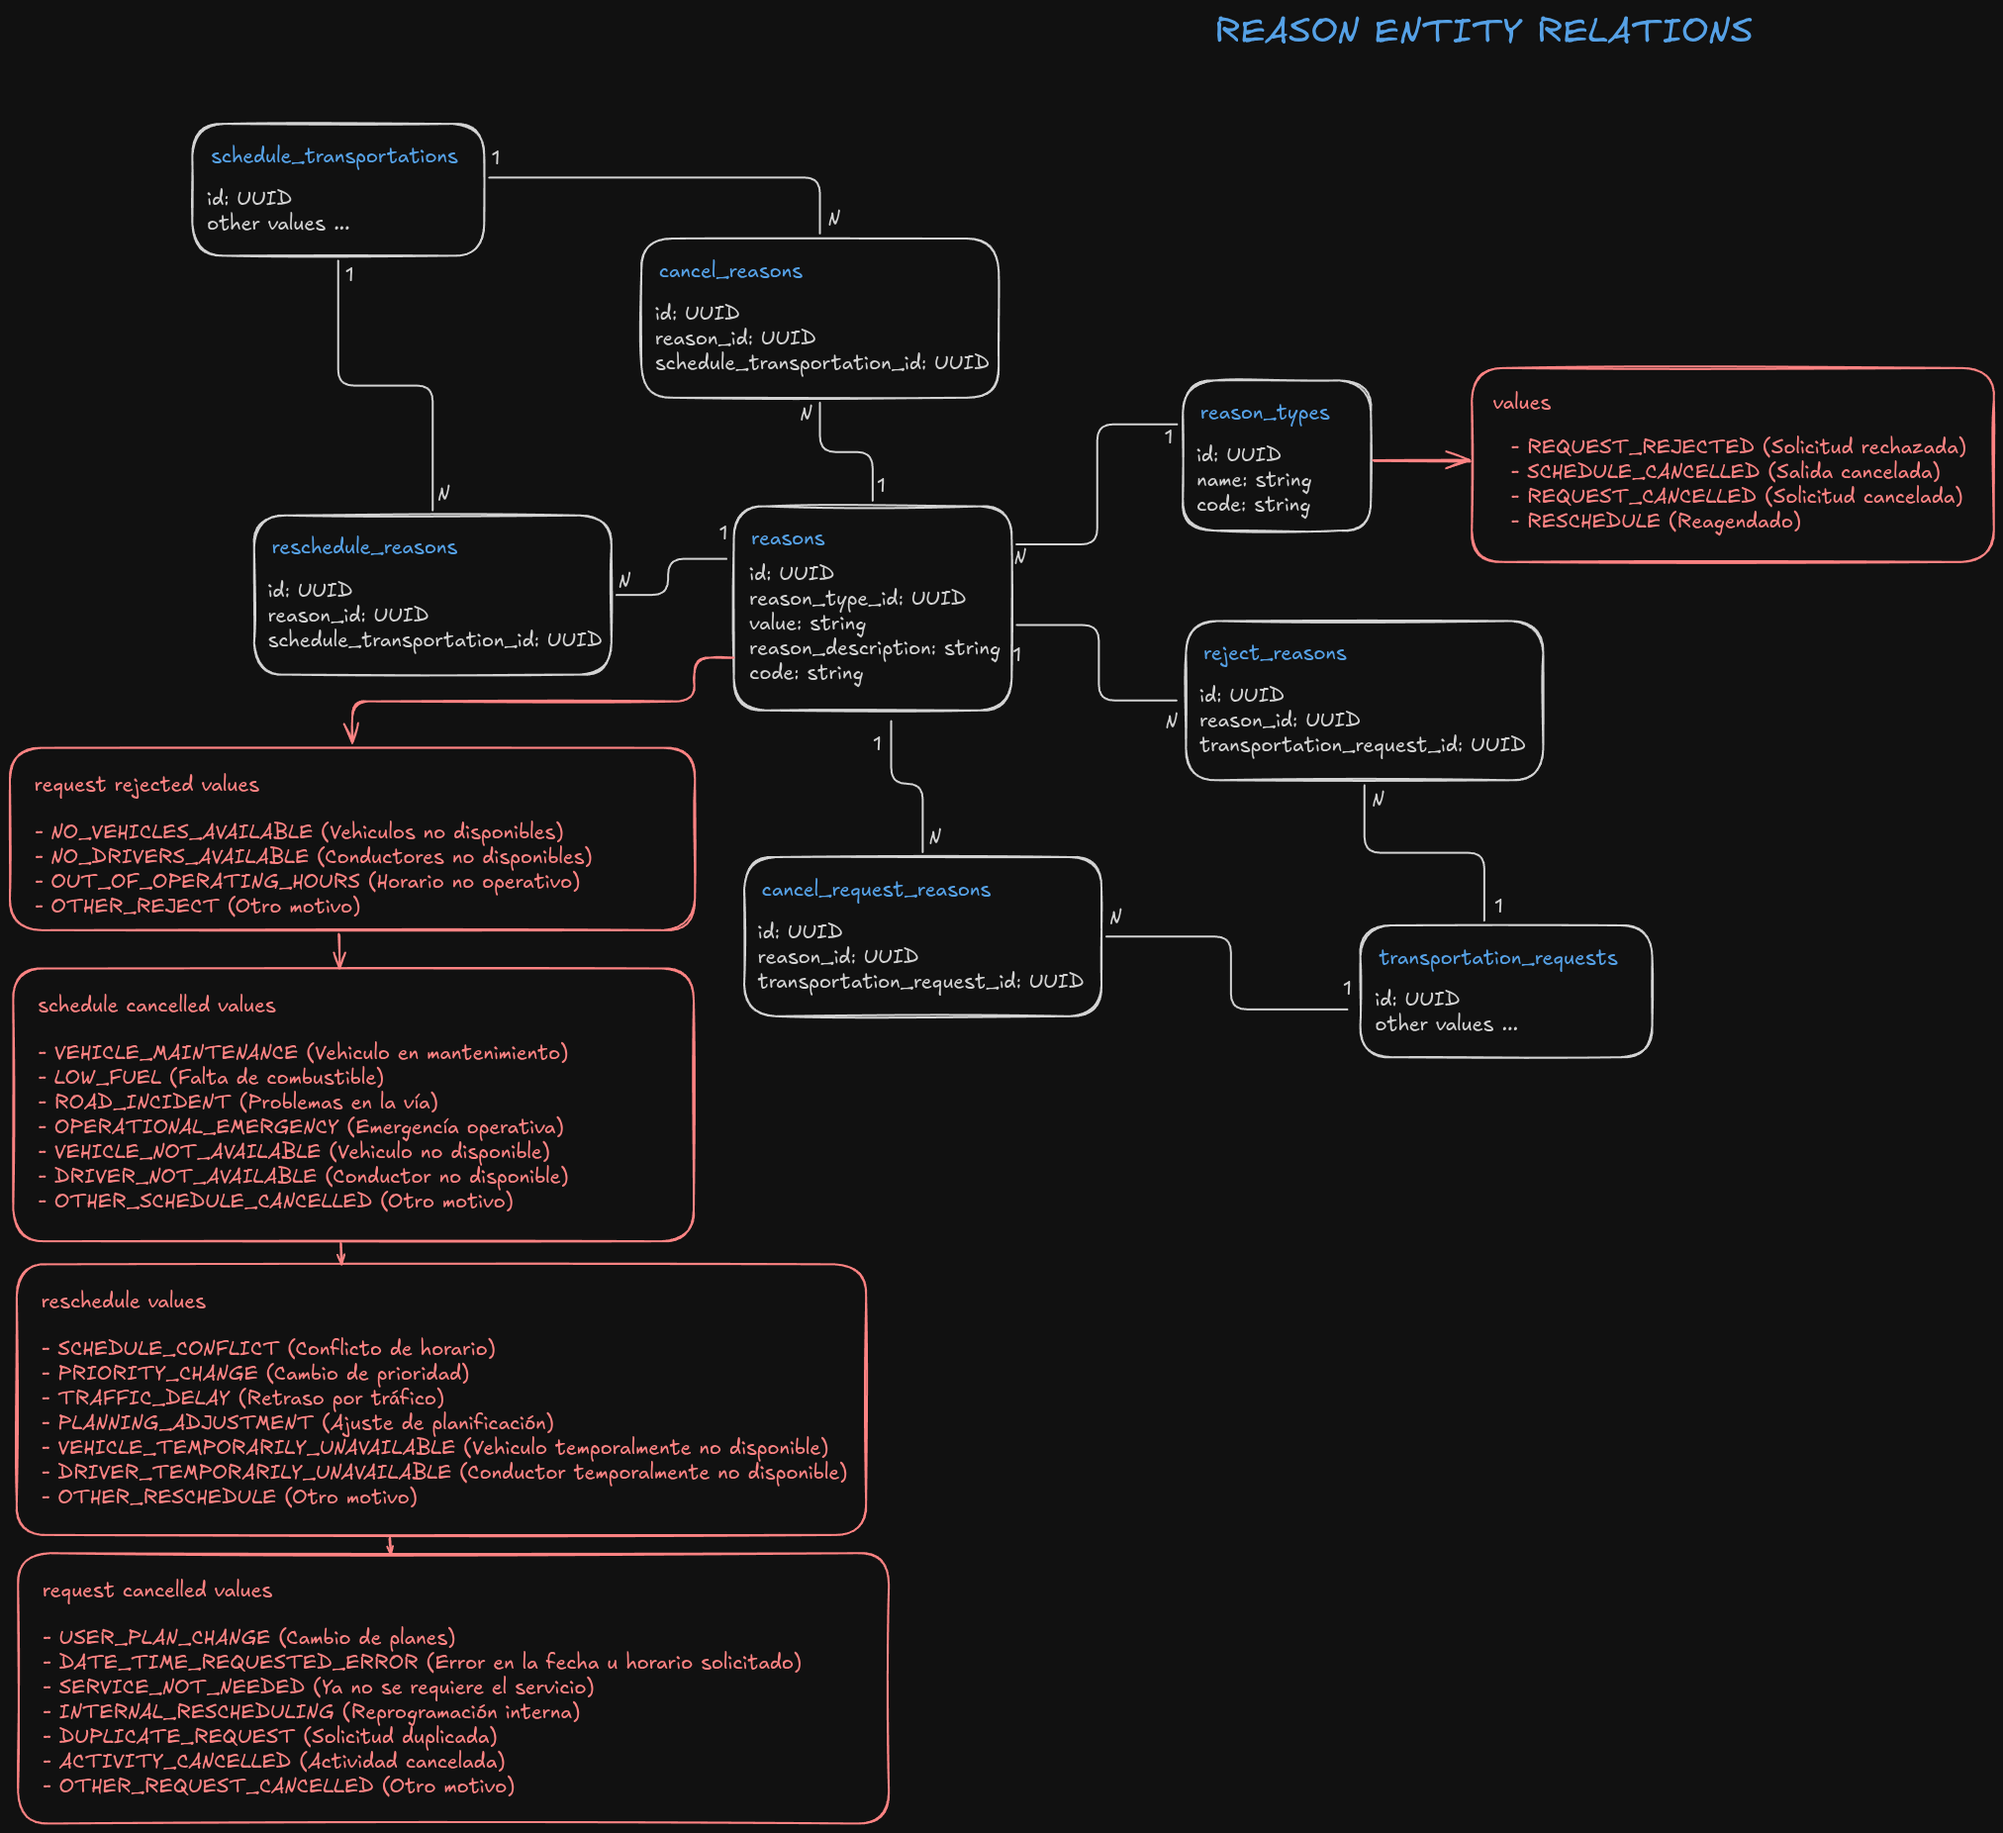
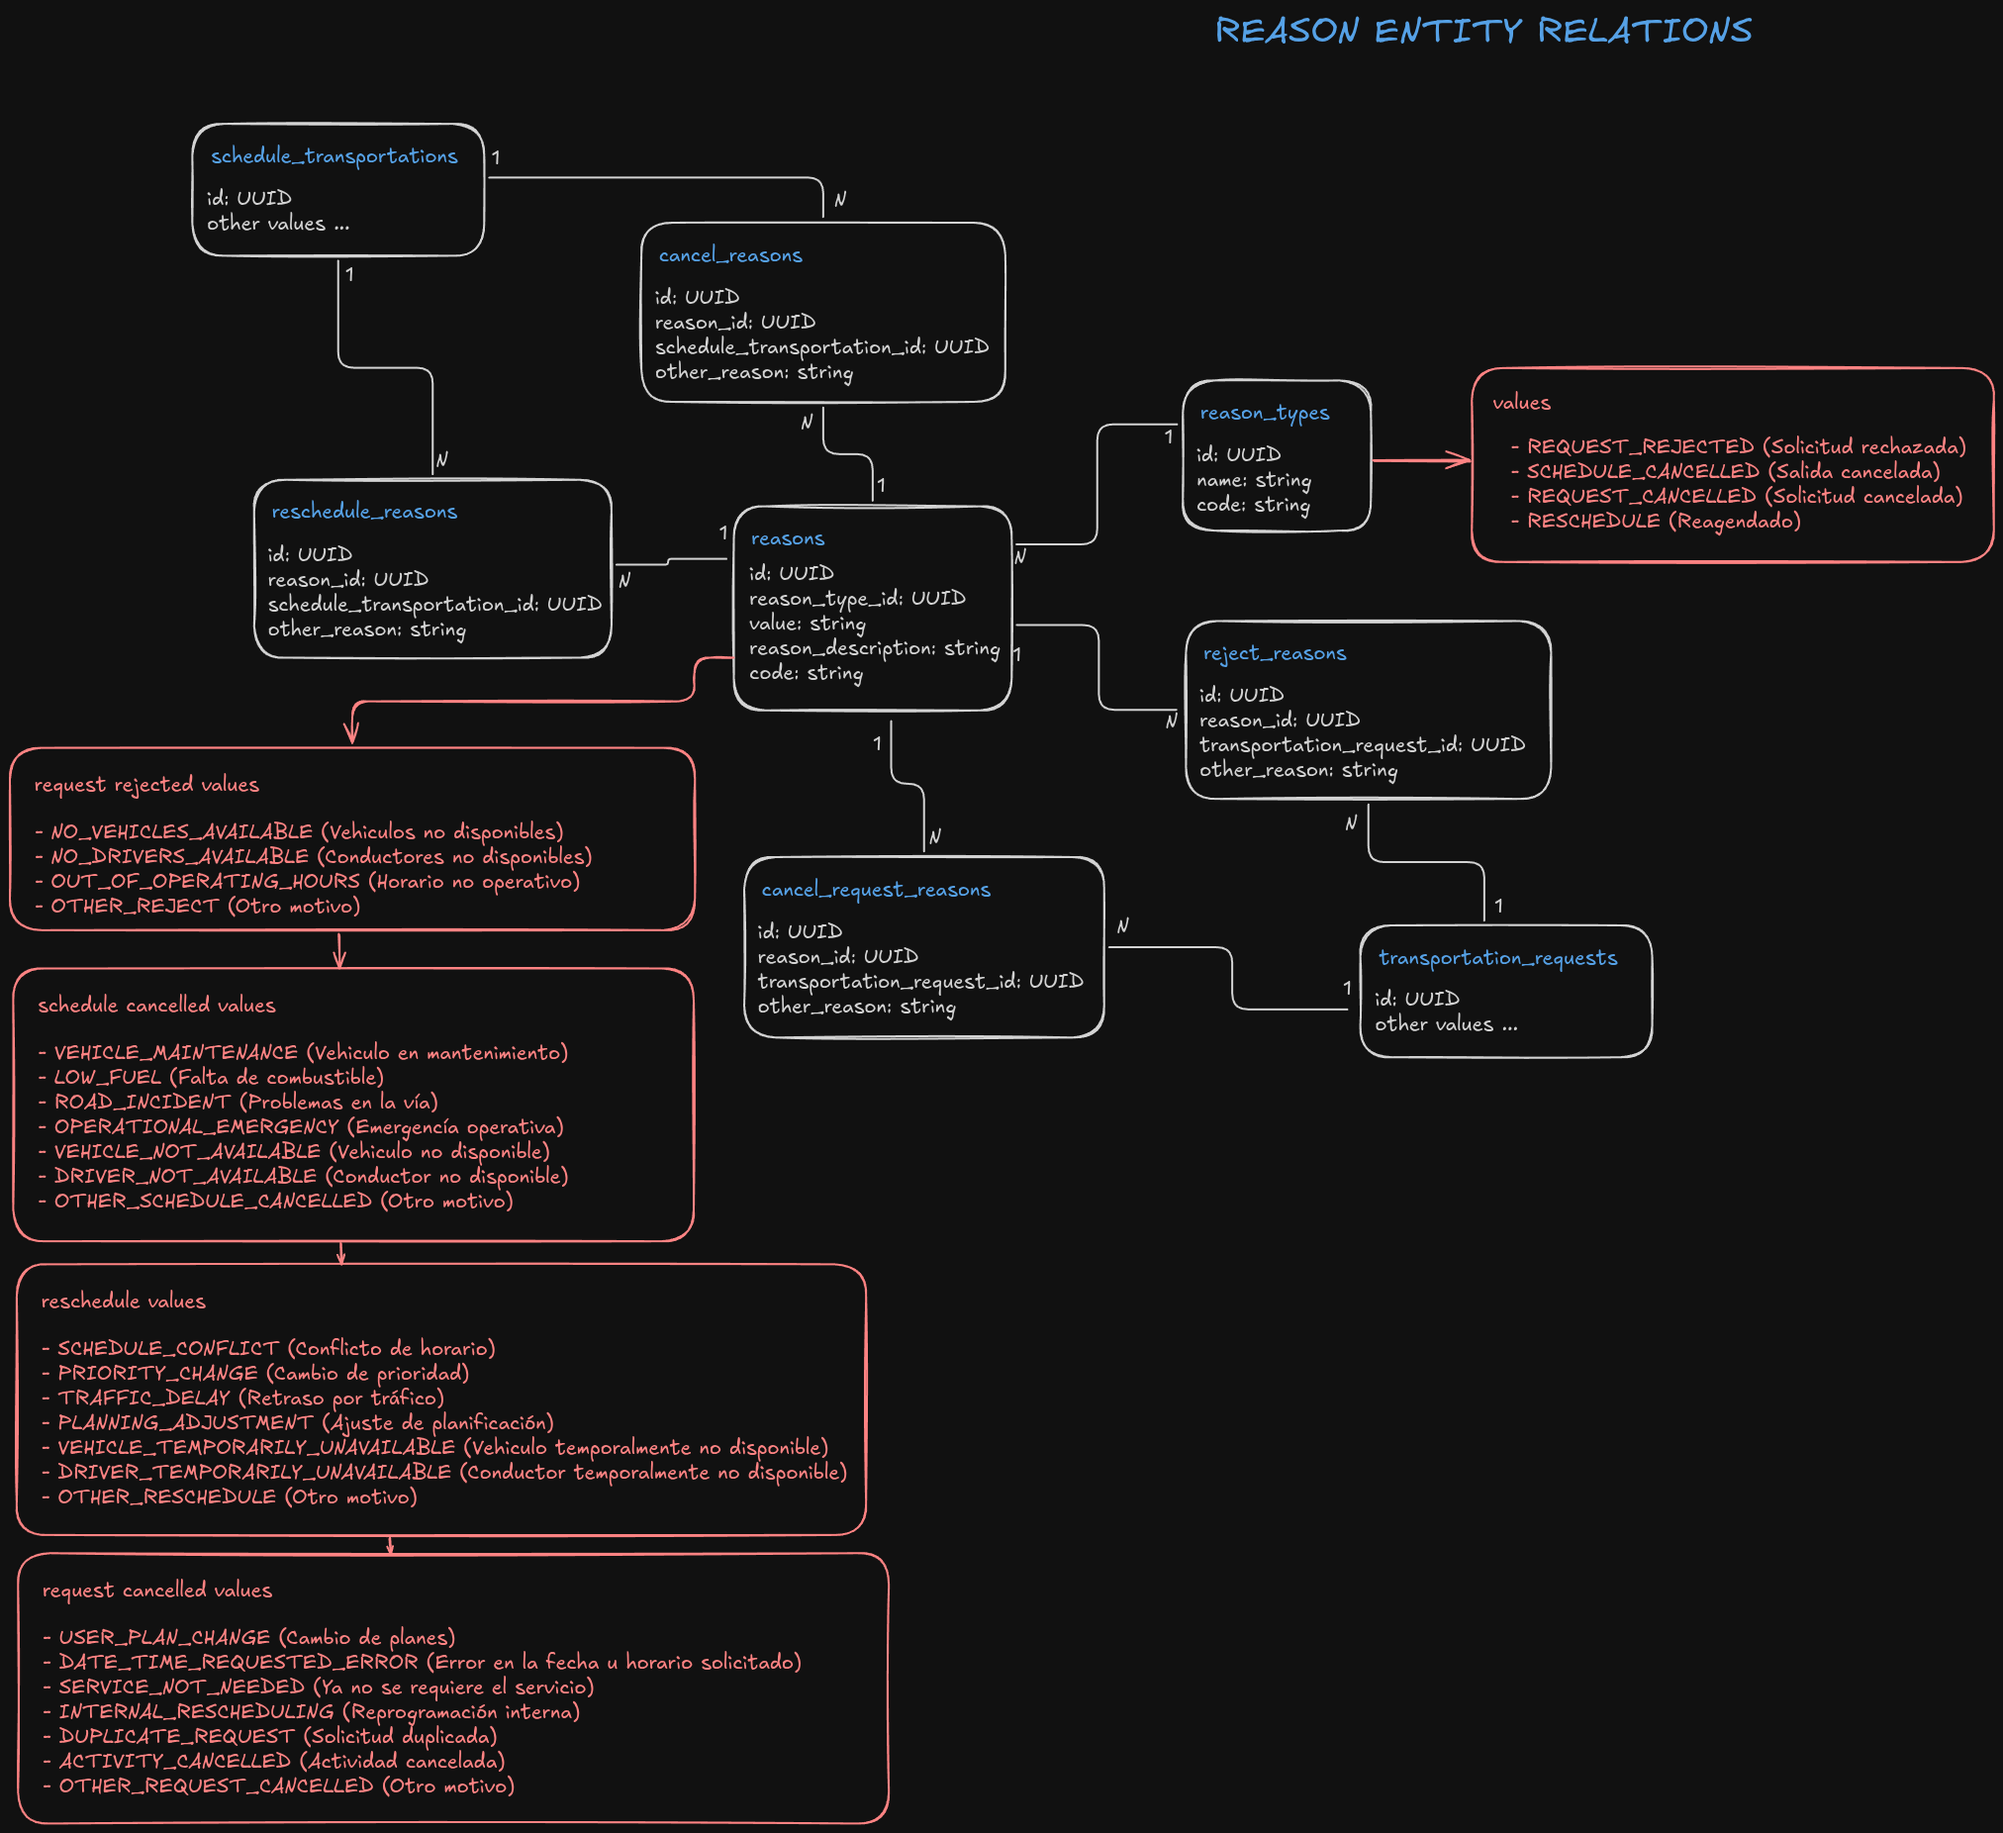
docs: add diagrams in readme

diff --git a/README.md b/README.md
@@ -86,3 +86,27 @@ OAUTH2_ADMIN_PASSWORD=admin-pass                    # Admin password for initial
 MS_AUTH_SCHEME=http                                 # Auth microservice scheme (e.g., http, https)
 MS_AUTH_HOST=localhost                              # Auth microservice host (same as auth host defined)
 ```
+
+## Database Structure
+
+The database structure is the follow:
+
+### Person Entity
+
+![Person Entity Diagram](driver-schedule-service/docs/person.png)
+
+### Reason Entity
+
+![Reason Entity Diagram](driver-schedule-service/docs/reason.png)
+
+### Schedule Transportation Entity
+
+![Schedule Transportation Entity Diagram](driver-schedule-service/docs/schedule-transportation.png)
+
+### Transportation Request Entity
+
+![Transportation Request Entity Diagram](driver-schedule-service/docs/transportation-request.png)
+
+### Trip Entity
+
+![Trip Entity Diagram](driver-schedule-service/docs/trip.png)
